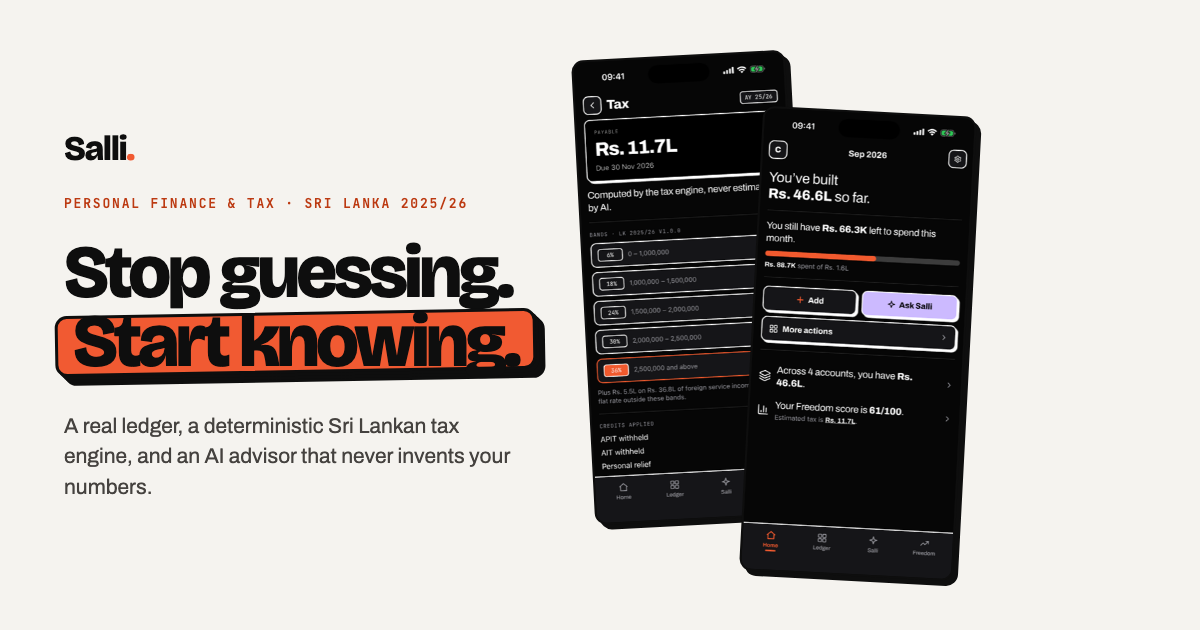
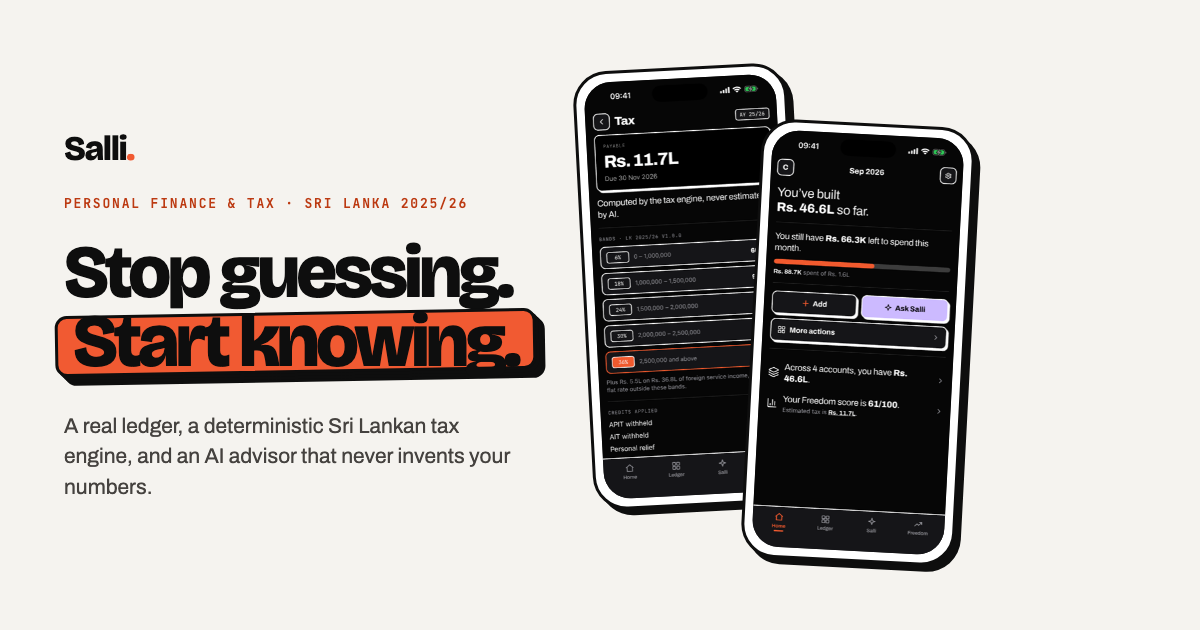
feat(site): put the screenshots in a phone
The captures sat in a plain bordered rectangle, which read as a dark
tile rather than as a device, and in the ink bento cell it read as a
smudge.

The frame's proportions are the device's, not a mockup library's
defaults. Apple's display corner radius on a 6.9" screen is roughly 14%
of the screenshot's width and the side bezel is under 4% of device
width, both much tighter than the usual CSS phone, which is what makes
those look like toys.

The bezel is light with a heavy ink outline rather than black. An ink
bezel was the obvious choice on this palette and the wrong one: every
capture is a near-black screen, so the two merged into one dark
rectangle and the phone stopped reading as a phone at all. The screen
carries a one-pixel inner hairline for the same reason.

No island is drawn. These are real captures and the cutout is already in
the pixels; adding one paints a second island under the first.

Built into AppShot, so the hero, both feature rows, the bento tile, the
platforms pair and all three on /features get it from one place. The
Open Graph card is regenerated to match.

Checked for overflow at 1440, 1280, 1024, 768 and 390: the page cannot
scroll horizontally at any of them, and the only elements past the edge
are the marquee track inside its own clip.

Changed region(s): [[0.4625, 0.0603, 0.8325, 0.9349]]

diff --git a/clients/site/src/components/AppShot.tsx b/clients/site/src/components/AppShot.tsx
@@ -2,22 +2,33 @@ import Image from "next/image";
 import { clsx } from "clsx";
 
 /**
- * A real screenshot of the shipped app, framed in the site's own system.
+ * A real screenshot of the shipped app, in a phone.
  *
- * The previous site built its product previews out of styled `<div>`s: fake
- * ledger rows, a fake tax card, a fake chat bubble. They drifted from the real
- * app immediately and none of them survived the app's redesign. These are the
- * actual captures from the App Store submission, so the page cannot promise a
- * screen the product does not have.
+ * The captures are the actual ones from the App Store submission, so the page
+ * cannot promise a screen the product does not have. The previous site built
+ * its product previews out of styled `<div>`s: fake ledger rows, a fake tax
+ * card, a fake chat bubble. They drifted from the real app immediately and none
+ * of them survived the app's redesign.
  *
- * No phone chrome. The app's own canvas (#0E0E0E) against the site's cream is
- * already the strongest edge on the page; wrapping it in a drawn bezel would
- * add a second, softer frame around a design built on one hard border.
+ * The frame's proportions are the device's, not a mockup library's default.
+ * Apple's `displayCornerRadius` on a 6.9" screen is roughly 14-15% of the
+ * screenshot's width, and the physical side bezel is under 3% of device width,
+ * both far tighter than the usual CSS phone mockup, which is exactly what makes
+ * those read as toys.
+ *
+ * The bezel is light with a heavy ink outline rather than black. Every capture
+ * is a near-black screen, so an ink bezel merged with it into one dark
+ * rectangle and the phone stopped reading as a phone at all.
+ *
+ * No island is drawn. These are real captures and the cutout is already in the
+ * pixels; adding one paints a second island under the first.
  */
 
-// Every capture is a 6.9" iPhone frame, so the ratio is fixed rather than
-// per-image; a wrong aspect here would letterbox the whole gallery at once.
-const ASPECT = 1320 / 2868;
+// Every capture is a 6.9" frame, so the screen ratio is fixed rather than
+// per-image. A wrong value here letterboxes the whole gallery at once.
+const SCREEN_ASPECT = 1320 / 2868;
+const BEZEL_RATIO = 0.036;
+const SCREEN_RADIUS_RATIO = 0.15;
 
 export function AppShot({
   src,
@@ -29,31 +40,61 @@ export function AppShot({
 }: {
   src: string;
   alt: string;
+  /** Outer width of the phone, bezel included. */
   width?: number;
   priority?: boolean;
   className?: string;
   /** Degrees. Used sparingly, and never on a screen the reader has to read. */
   tilt?: number;
 }) {
+  const bezel = width * BEZEL_RATIO;
+  const screenW = width - bezel * 2;
+  const screenH = screenW / SCREEN_ASPECT;
+  const screenRadius = screenW * SCREEN_RADIUS_RATIO;
+  const outerRadius = screenRadius + bezel;
+  const height = screenH + bezel * 2;
+
   return (
     <div
-      className={clsx("brut flex-none overflow-hidden bg-ink", className)}
+      className={clsx("relative flex-none bg-card", className)}
       style={{
         width,
-        // Reserving the box keeps CLS at zero while the image decodes.
-        aspectRatio: `${ASPECT}`,
+        height,
+        borderRadius: outerRadius,
+        padding: bezel,
+        // The site's hard shadow, sized to the object rather than inherited, so
+        // a 150px phone in a bento tile is not carrying the hero's slab edge.
+        border: "3px solid var(--color-ink)",
+        boxShadow: `${width > 200 ? 6 : 4}px ${width > 200 ? 6 : 4}px 0 0 var(--brut, var(--color-ink))`,
         transform: tilt ? `rotate(${tilt}deg)` : undefined,
       }}
     >
-      <Image
-        src={src}
-        alt={alt}
-        width={660}
-        height={1434}
-        priority={priority}
-        sizes={`${width}px`}
-        className="h-full w-full object-cover object-top"
-      />
+      {/* Side controls. Drawn just outside the body so they read as hardware
+          against the light bezel, and in ink so they survive on both canvases. */}
+      <span aria-hidden="true">
+        <i className="absolute -left-[5px] top-[21%] h-[3.4%] w-[3px] rounded-l-full bg-ink" />
+        <i className="absolute -left-[5px] top-[29%] h-[6.5%] w-[3px] rounded-l-full bg-ink" />
+        <i className="absolute -left-[5px] top-[38%] h-[6.5%] w-[3px] rounded-l-full bg-ink" />
+        <i className="absolute -right-[5px] top-[31%] h-[9%] w-[3px] rounded-r-full bg-ink" />
+      </span>
+
+      <div
+        className="relative h-full w-full overflow-hidden bg-black"
+        style={{
+          borderRadius: screenRadius,
+          boxShadow: "inset 0 0 0 1px rgba(255,255,255,0.16)",
+        }}
+      >
+        <Image
+          src={src}
+          alt={alt}
+          width={660}
+          height={1434}
+          priority={priority}
+          sizes={`${Math.round(width)}px`}
+          className="h-full w-full object-cover object-top"
+        />
+      </div>
     </div>
   );
 }
